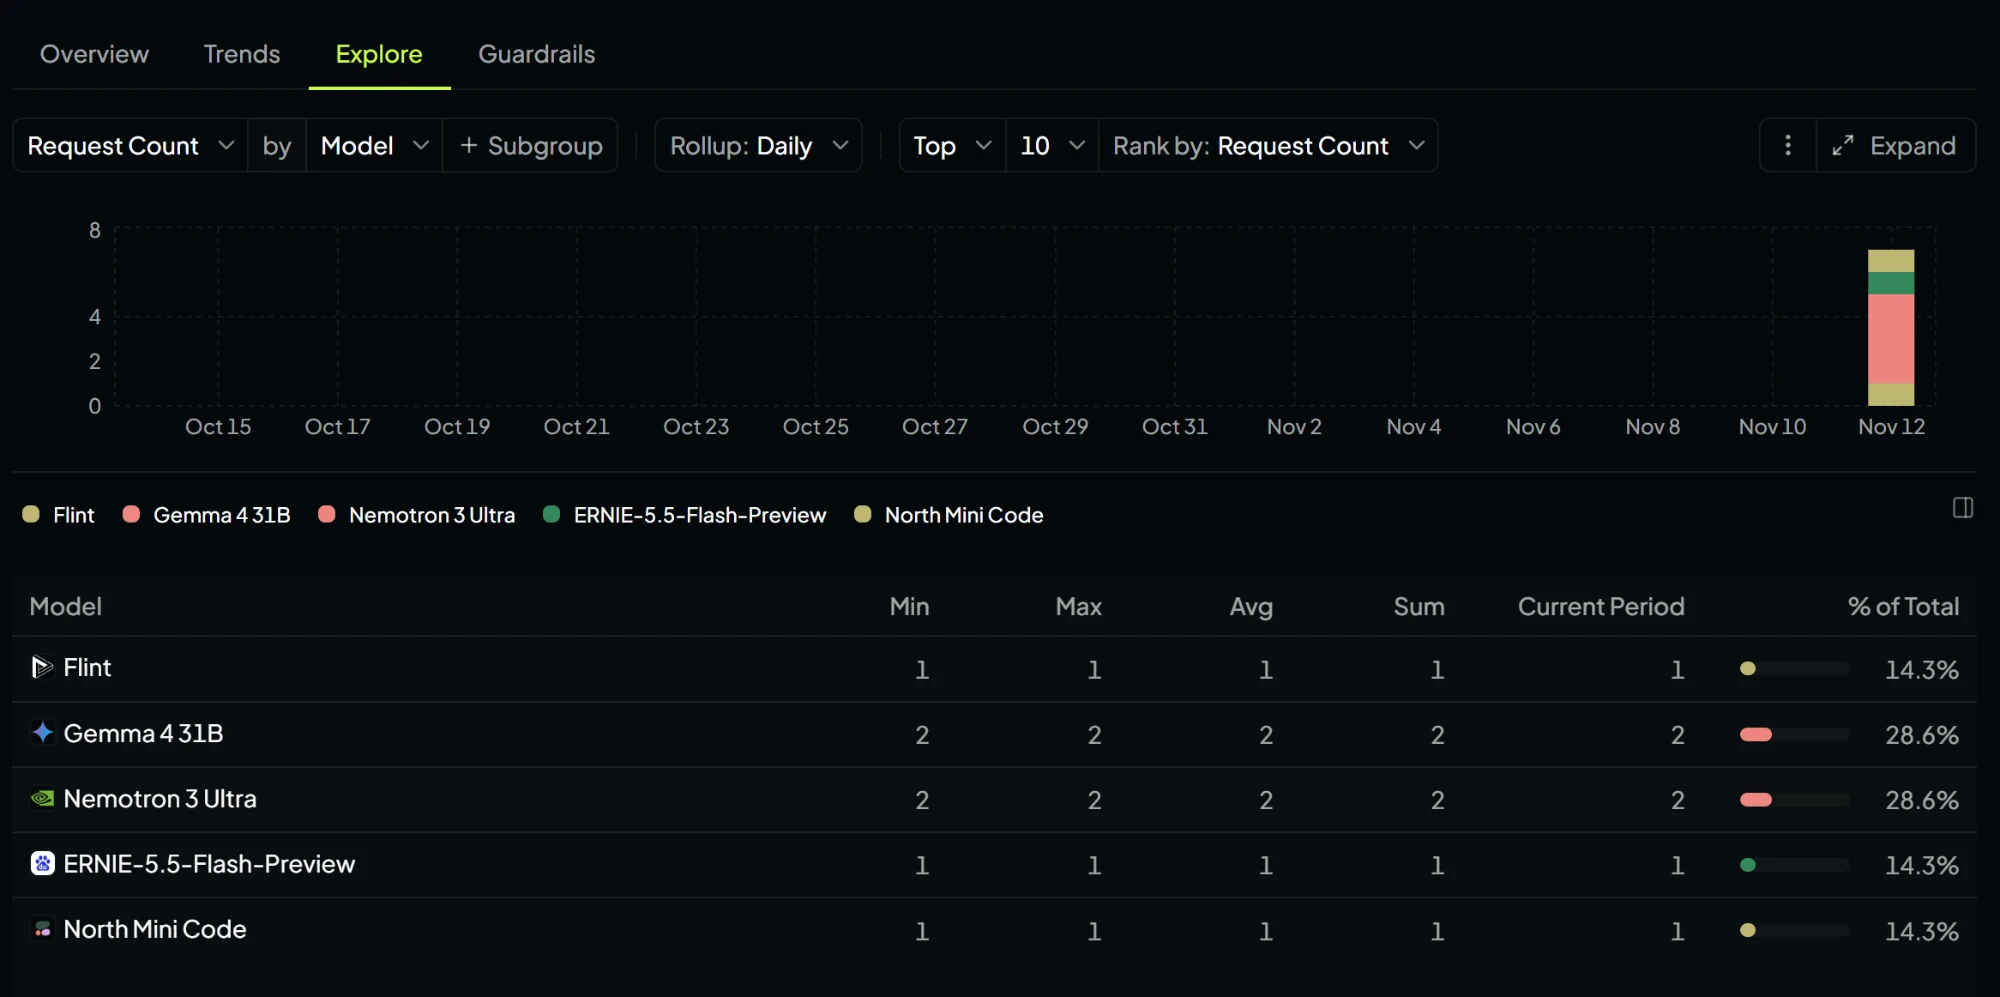
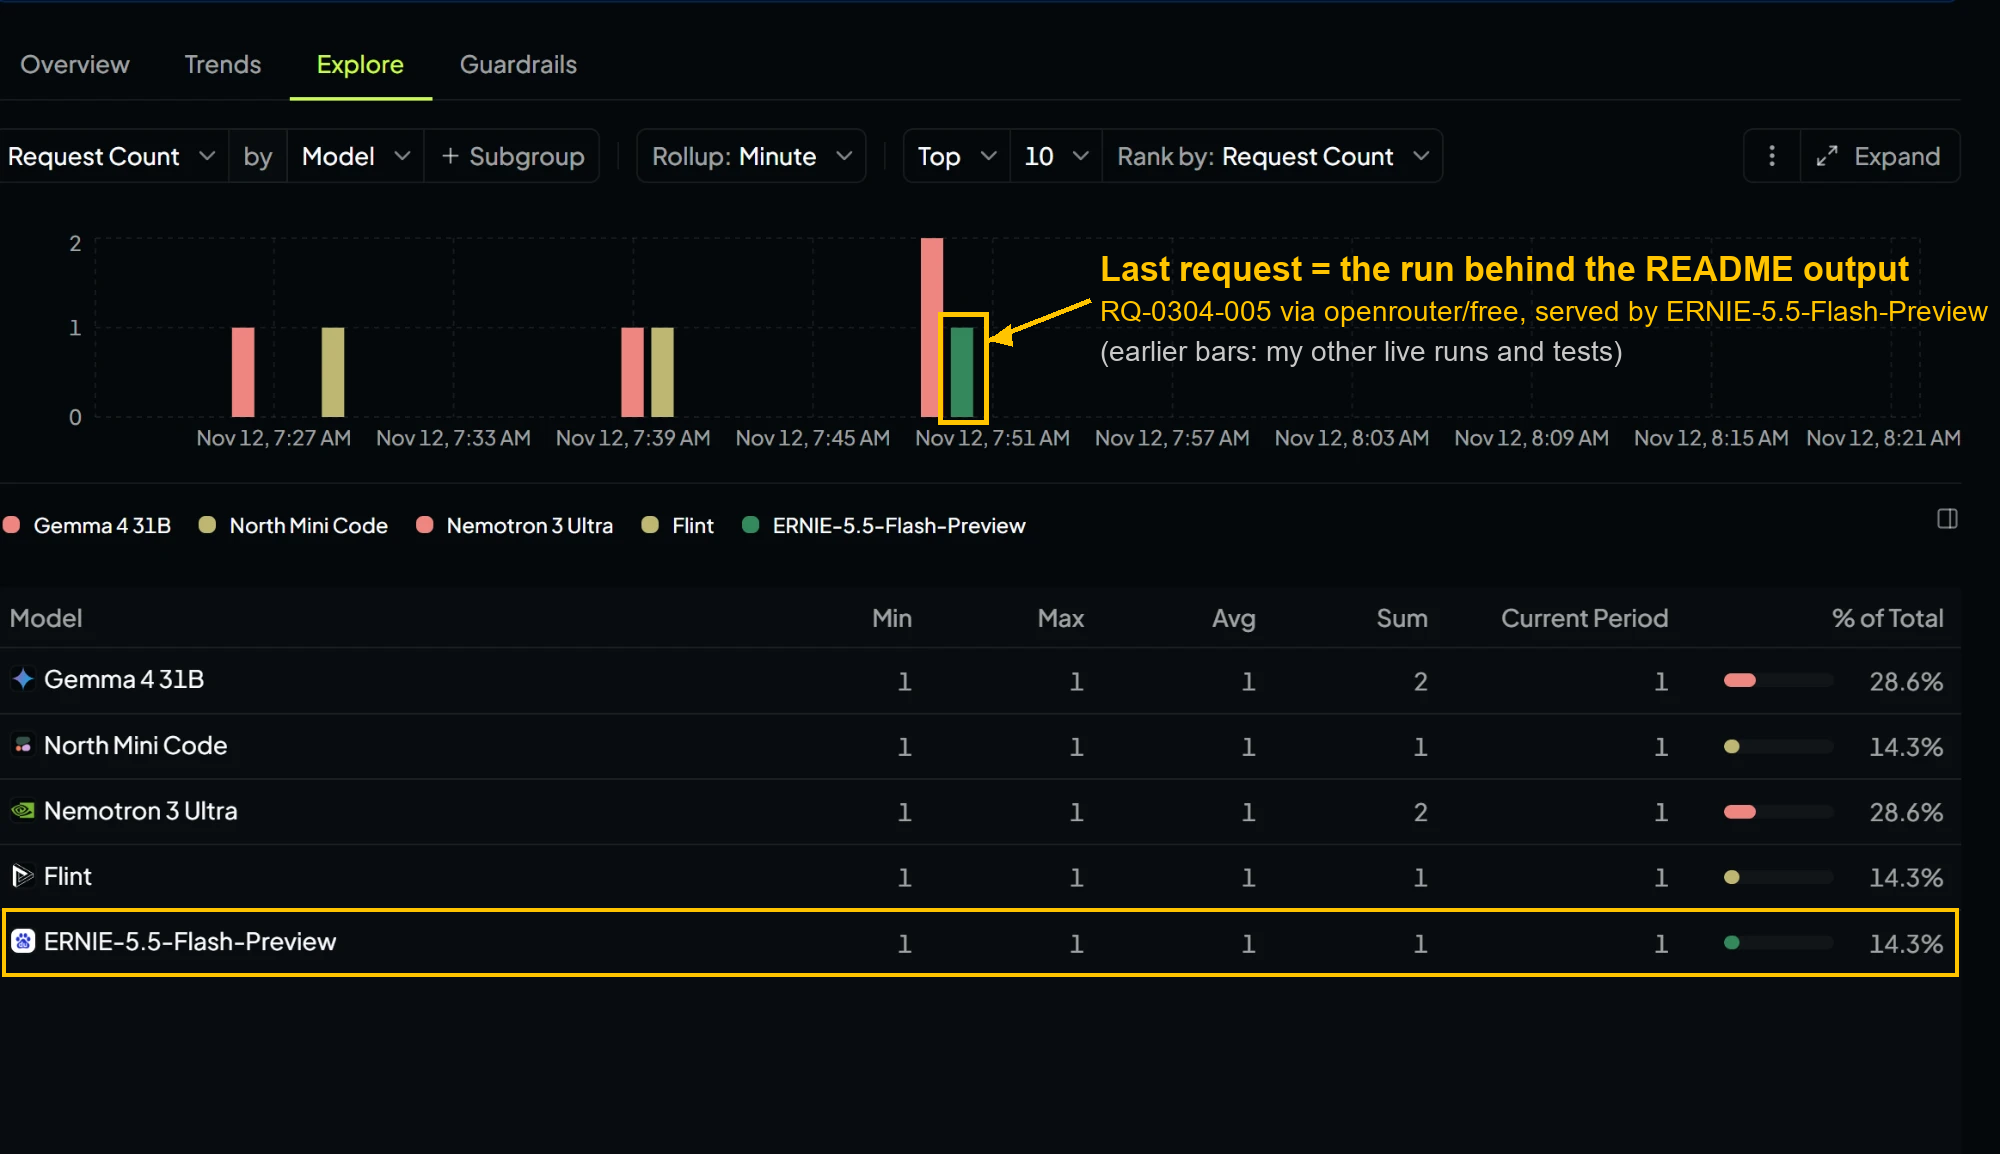
README: new OpenRouter activity screenshot, mark the RQ-0304-005 run

diff --git a/README.md b/README.md
@@ -101,6 +101,8 @@ The plan had no branch for zero candidates: if every driver was `on_trip` or `of
 
 ## OpenRouter usage
 
-Activity from the OpenRouter dashboard (Explore tab, Request Count by Model, daily rollup) showing the graph is calling the free models. On 12 Nov it logged 7 requests across 5 free models (Gemma 4 31B 2, Nemotron 3 Ultra 2, Flint 1, ERNIE-5.5-Flash-Preview 1, North Mini Code 1); the `openrouter/free` fallback routes between free models, which is why more than one appears.
+Activity from my OpenRouter dashboard (Explore tab, Request Count by Model, minute rollup) showing the graph is calling the free models. On 12 Nov it logged 7 requests across 5 free models (Gemma 4 31B 2, Nemotron 3 Ultra 2, Flint 1, ERNIE-5.5-Flash-Preview 1, North Mini Code 1); the `openrouter/free` fallback routes between free models, which is why more than one appears.
+
+The highlighted bar and table row mark the request behind the `RQ-0304-005` output shown above. It is the last request in the chart, served by ERNIE-5.5-Flash-Preview through `openrouter/free`, which matches `"model": "openrouter/free"` in the output. The other bars are my earlier live runs and tests. The dashboard does not record request IDs, so I matched it by order: the `RQ-0304-005` output run was the last live call I made.
 
 ![OpenRouter activity](docs/openrouter-activity.png)
